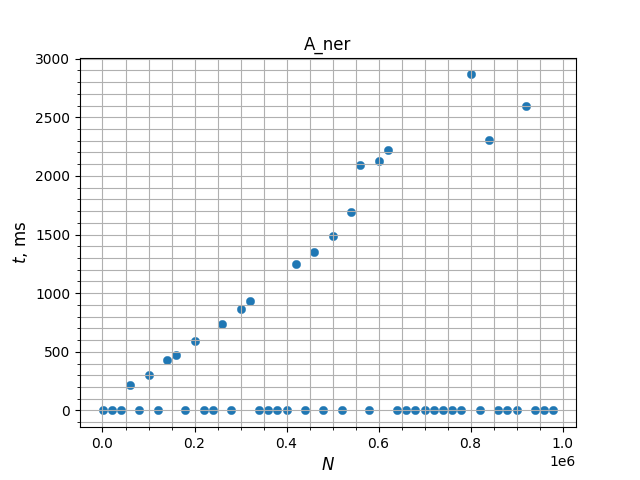
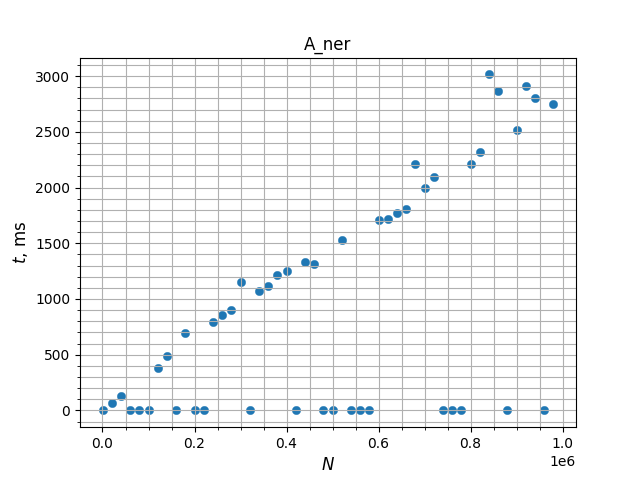
commit7

diff --git a/lab_1/laba_1.cpp b/lab_1/laba_1.cpp
@@ -387,7 +387,8 @@ void worst_A()
         for (int i = 0; i < N; i++)
             arr[i] = dstr(rng);
         int key = random_key(N);
-        if (key > N*0.01 && key < N*0.99) key = N/2;
+        if (key > N*0.01 && key < N*0.49) key = N/4;
+        else if (key > N*0.50 && key < N*0.99) key = 3*N/2;
         outFileN << N << std::endl;
         outFile << time_A(arr, N, key) << std::endl;
     }
@@ -406,7 +407,8 @@ void worst_B()
         for (int i = 0; i < N; i++)
             arr[i] = dstr(rng);
         int key = random_key(N);
-        if (key > N*0.01 && key < N*0.99) key = N/2;
+        if (key > N*0.01 && key < N*0.69) key = N/4;
+        else if (key > N*0.70 && key < N*0.99) key = 3*N/2;
         outFile << time_B(arr, N, key) << std::endl;
     }
     outFile.close();
@@ -424,7 +426,8 @@ void worst_C()
         for (int i = 0; i < N; i++)
             arr[i] = dstr(rng);
         int key = random_key(N);
-        if (key > N*0.01 && key < N*0.99) key = N/2;
+        if (key > N*0.01 && key < N*0.69) key = N/4;
+        else if (key > N*0.70 && key < N*0.99) key = 3*N/2;
         outFile << time_C(arr, N, key, arr_0) << std::endl;
     }
     outFile.close();
